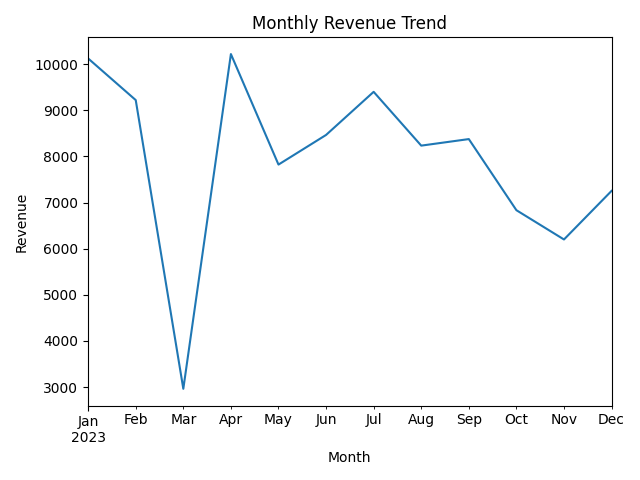
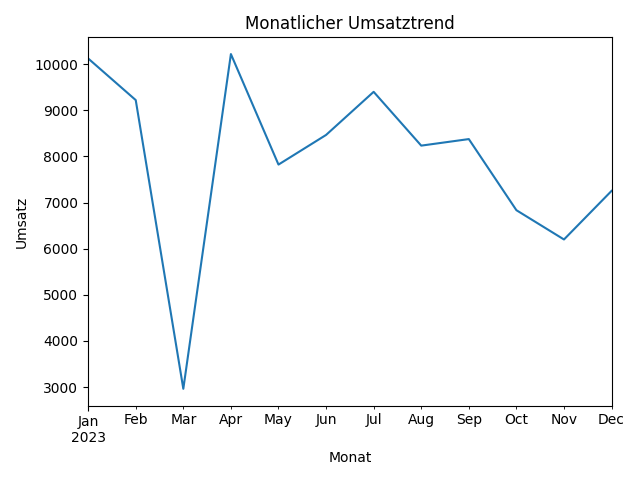
feat: summary report and data exports

Changed region(s): [[0.375, 0.0312, 0.7188, 0.0625], [0.0, 0.4062, 0.0625, 0.5312], [0.5, 0.9375, 0.5938, 0.9688]]

diff --git a/analyzer.py b/analyzer.py
@@ -71,6 +71,9 @@ class SalesAnalyzer:
         orders_per_customer = self.df.groupby("customer_id").size()
         repeat_customers = orders_per_customer[orders_per_customer > 1]
         return len(repeat_customers) / len(orders_per_customer)
+    
+    def order_status_distribution(self):
+        return self.df["status"].value_counts(normalize=True) * 100
 
     def monthly_revenue(self):
         completed = self.df[self.df["status"] == "completed"]
@@ -100,9 +103,9 @@ class SalesAnalyzer:
 
         plt.figure()
         data.plot()
-        plt.title("Monthly Revenue Trend")
-        plt.xlabel("Month")
-        plt.ylabel("Revenue")
+        plt.title("Monatlicher Umsatztrend")
+        plt.xlabel("Monat")
+        plt.ylabel("Umsatz")
         plt.tight_layout()
         plt.savefig(output_path)
         plt.close()
@@ -113,9 +116,38 @@ class SalesAnalyzer:
 
         plt.figure()
         plt.hist(completed["order_amount"], bins=20)
-        plt.title("Order Amount Distribution")
-        plt.xlabel("Order Amount")
-        plt.ylabel("Frequency")
+        plt.title("Auftragsstatusverteilung")
+        plt.xlabel("Bestellbetrag")
+        plt.ylabel("Häufigkeit")
         plt.tight_layout()
         plt.savefig(output_path)
         plt.close()
+
+    def generate_summary_report(self, output_path):
+        lines = []
+
+        lines.append("ZUSAMMENFASSENDER BERICHT ZUR VERTRIEBSANALYSE")
+        lines.append("=" * 35)
+        lines.append("")
+
+        lines.append(f"Gesamtumsatz: {self.total_revenue():.2f}")
+        lines.append(f"Durchschnittlicher Bestellwert: {self.average_order_value():.2f}")
+        lines.append(f"Kundenzahl: {self.customer_count()}")
+        lines.append("")
+
+        lines.append("Umsatz nach Kategorien:")
+        for category, revenue in self.revenue_by_category().items():
+            lines.append(f"  {category}: {revenue:.2f}")
+
+        lines.append("")
+        lines.append("Auftragsstatusverteilung (%):")
+        for status, pct in self.order_status_distribution().items():
+            lines.append(f"  {status}: {pct:.1f}%")
+
+        with open(output_path, "w", encoding="utf-8") as f:
+            f.write("\n".join(lines))
+
+    def export_top_customers(self, output_path, n=10):
+        top = self.top_customers(n)
+        top.to_csv(output_path, header=["total_spent"])
+

diff --git a/main.py b/main.py
@@ -9,6 +9,16 @@ def main():
     analyzer.load_data()
     analyzer.clean_data()
 
+    analyzer.export_clean_data("data/sales_clean.csv")
+
+    analyzer.generate_summary_report(
+        "output/summary_report.txt"
+    )
+
+    analyzer.export_top_customers(
+        "output/top_customers.csv"
+    )
+
     analyzer.plot_revenue_by_category(
         "output/figures/revenue_by_category.png"
     )
@@ -21,24 +31,7 @@ def main():
         "output/figures/order_distribution.png"
     )
 
-    print("Visualizations created")
-#    print("Sorting performance:", compare_sorting_performance())
-#    print("Search performance:", compare_search_performance())
-
-# def main():
-#    print("== Sales Analytics ==")
-#
-#    analyzer = SalesAnalyzer("data/sales_data.csv")
-#
-#    analyzer.load_data()
-#    analyzer.clean_data()
-#    analyzer.export_clean_data("data/sales_clean.csv")
-#
-#    print("\n\033[33mGemeinsames Einkommen:\033[0m", analyzer.total_revenue())
-#    print("\n\033[32mDurchschnittlicher Bestellwert:\033[0m", analyzer.average_order_value())
-#    print("\n\033[34mKunden:\033[0m", analyzer.customer_count())
-#    print("\n\033[35mTop-Kategorie:\033[0m\n", analyzer.revenue_by_category())
-#    print("\n\033[36mWiederkaufrate:\033[0m", analyzer.repeat_customer_rate())
+    print("Projekt erfolgreich abgeschlossen")
 
 if __name__ == "__main__":
     main()
